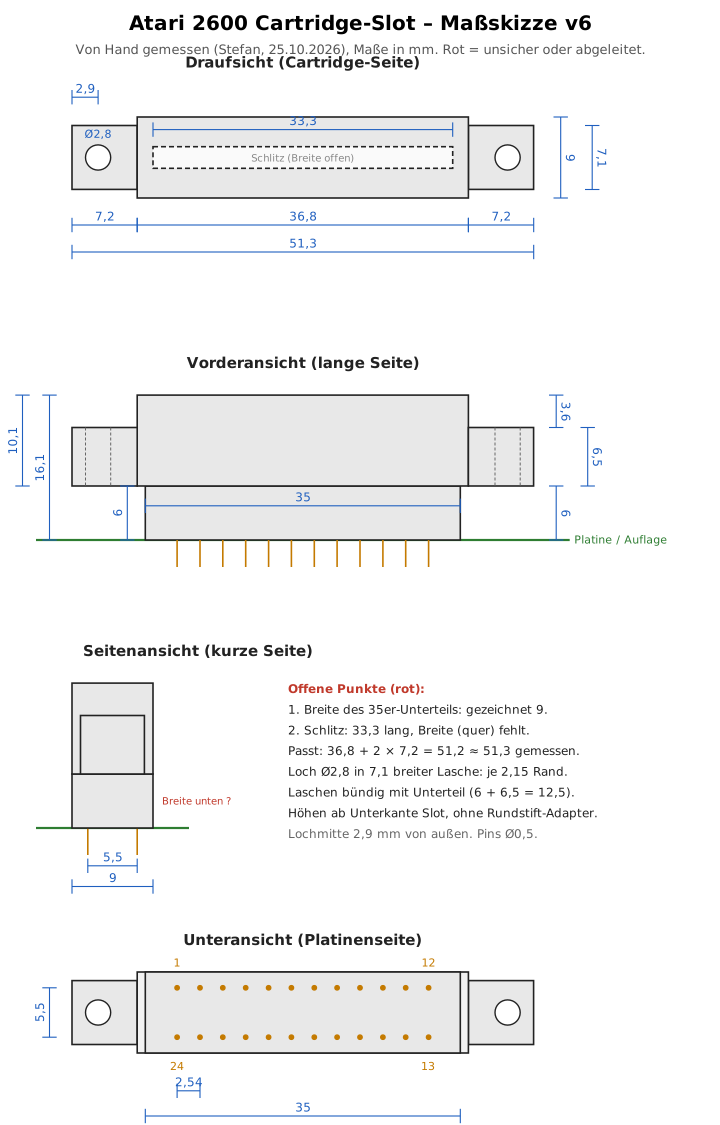
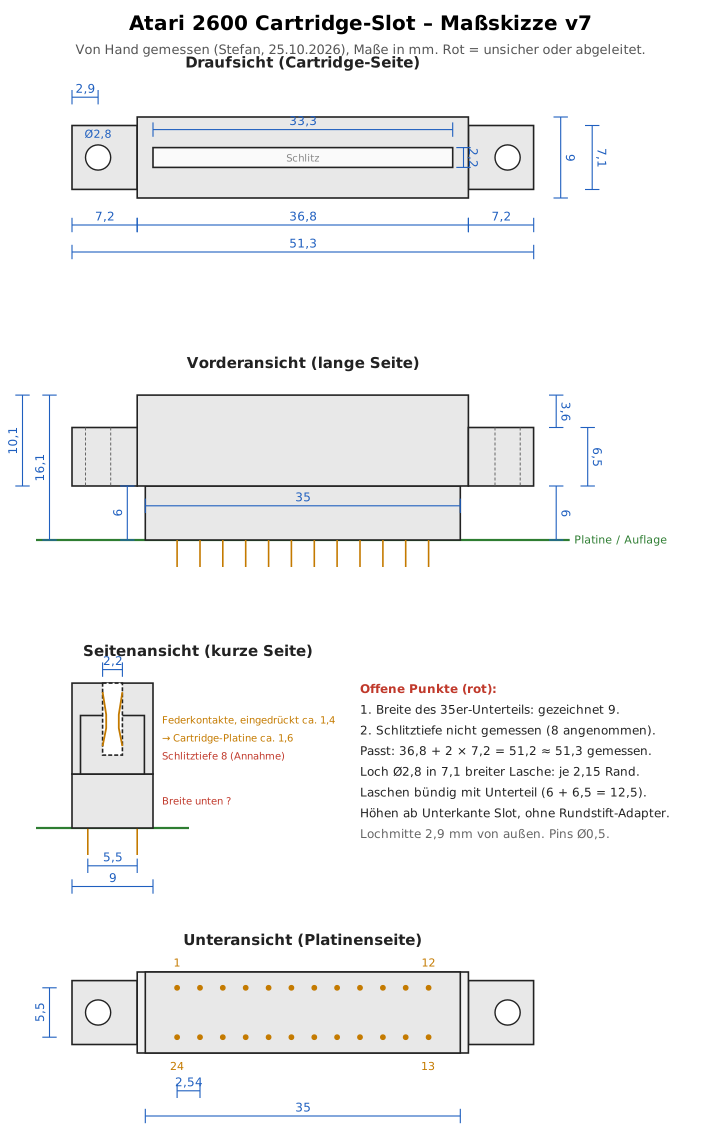
Slot drawing v7: card slot width and spring contacts
Claude-Session: https://claude.ai/code/session_015VQCpzuZ22TPQEmx9cLrbH

diff --git a/hardware/slot-drawing/zeichnung.py b/hardware/slot-drawing/zeichnung.py
@@ -1,6 +1,8 @@
 # 2D-Massskizze Atari-2600-Cartridge-Slot, von Hand gemessen (Stefan, 25.10.2026)
 import sys
 L, W = 51.3, 9.0
+SLOT_W, CONTACT_GAP = 2.2, 1.4       # Schlitzbreite, Abstand eingedrueckter Federkontakte (geschaetzt)
+SLOT_DEPTH = 8.0                    # Annahme, nicht gemessen
 SLOT_L = 33.3                       # Schlitzlaenge (Stefan: "Schlitzbreite")
 UP_H = 10.1                         # Oberteil (36,8 lang) ueber dem Unterteil
 INNER = 36.8                        # Steckleiste ohne Laschen
@@ -47,8 +49,9 @@ ox, oy = 8, 13
 txt(ox + L / 2, oy - 5.5, 'Draufsicht (Cartridge-Seite)', 15, bold=True)
 rect(ox, oy + (W - EAR_W) / 2, EAR, EAR_W); rect(ox + L - EAR, oy + (W - EAR_W) / 2, EAR, EAR_W)
 rect(ox + EAR, oy, INNER, W)
-rect(ox + (L - SLOT_L) / 2, oy + W / 2 - 1.2, SLOT_L, 2.4, fill='#fafafa', dash='5,3')
-txt(ox + L / 2, oy + W / 2 + .45, 'Schlitz (Breite offen)', 10, '#888')
+rect(ox + (L - SLOT_L) / 2, oy + W / 2 - SLOT_W / 2, SLOT_L, SLOT_W, fill='#fafafa')
+txt(ox + L / 2, oy + W / 2 + .45, 'Schlitz', 10, '#888')
+dimv(ox + (L + SLOT_L) / 2 + 1.2, oy + W / 2 - SLOT_W / 2, oy + W / 2 + SLOT_W / 2, '2,2', left=False)
 dimh(ox + (L - SLOT_L) / 2, ox + (L + SLOT_L) / 2, oy + 1.4, f(SLOT_L))
 for xh in (ox + HOLE_X, ox + L - HOLE_X):
     circ(xh, oy + W / 2, HOLE_D)
@@ -90,6 +93,14 @@ rect(sx, sb - LOW_H, W, LOW_H)
 rect(sx, sb - H, W, H - LOW_H)
 rect(sx + (W - EAR_W) / 2, sb - EAR_Z1, EAR_W, EAR_Z1 - EAR_Z0)
 dimh(sx, sx + W, sb + 6.5, '9')
+rect(sx + W / 2 - SLOT_W / 2, sb - H, SLOT_W, SLOT_DEPTH, fill='white', dash='4,2')
+for side in (-1, 1):
+    xw, xc = sx + W / 2 + side * SLOT_W / 2, sx + W / 2 + side * CONTACT_GAP / 2
+    out.append(f'<polyline points="{xw*S:.1f},{(sb-H+1)*S:.1f} {xc*S:.1f},{(sb-H+3.5)*S:.1f} {xc*S:.1f},{(sb-H+5)*S:.1f} {xw*S:.1f},{(sb-H+7)*S:.1f}" fill="none" stroke="{PIN}" stroke-width="1.8"/>')
+dimh(sx + W / 2 - SLOT_W / 2, sx + W / 2 + SLOT_W / 2, sb - H - 1.5, '2,2')
+txt(sx + W + 1, sb - H + 4.5, 'Federkontakte, eingedrückt ca. 1,4', 10, PIN, 'start')
+txt(sx + W + 1, sb - H + 6.5, '→ Cartridge-Platine ca. 1,6', 10, PIN, 'start')
+txt(sx + W + 1, sb - H + 8.5, 'Schlitztiefe 8 (Annahme)', 10, RED, 'start')
 dimh(sx + W / 2 - ROW / 2, sx + W / 2 + ROW / 2, sb + 4.2, '5,5')
 txt(sx + W + 1, sb - LOW_H / 2 + .4, 'Breite unten ?', 10, RED, 'start')
 
@@ -111,10 +122,10 @@ dimh(ux + (L - LOW_L) / 2, ux + (L + LOW_L) / 2, uy + W + 7, '35')
 dimv(ux - 2.5, uy + W / 2 - ROW / 2, uy + W / 2 + ROW / 2, '5,5')
 
 # --- Hinweise ---
-nx, ny = 32, 77
+nx, ny = 40, 77
 notes = [('Offene Punkte (rot):', RED, True),
          ('1. Breite des 35er-Unterteils: gezeichnet 9.', '#222', False),
-         ('2. Schlitz: 33,3 lang, Breite (quer) fehlt.', '#222', False),
+         ('2. Schlitztiefe nicht gemessen (8 angenommen).', '#222', False),
          ('Passt: 36,8 + 2 × 7,2 = 51,2 ≈ 51,3 gemessen.', '#222', False),
          ('Loch Ø2,8 in 7,1 breiter Lasche: je 2,15 Rand.', '#222', False),
          ('Laschen bündig mit Unterteil (6 + 6,5 = 12,5).', '#222', False),
@@ -124,6 +135,6 @@ for i, (t, c, b) in enumerate(notes):
     txt(nx, ny + i * 2.3, t, 12, c, 'start', bold=b)
 w, h = 80 * S, 125 * S
 svg = f'<svg xmlns="http://www.w3.org/2000/svg" width="{w}" height="{h}" viewBox="0 0 {w} {h}"><rect width="100%" height="100%" fill="white"/>' + \
-      f'<text x="{w/2}" y="30" font-family="DejaVu Sans, sans-serif" font-size="20" font-weight="bold" text-anchor="middle">Atari 2600 Cartridge-Slot – Maßskizze v6</text>' + \
+      f'<text x="{w/2}" y="30" font-family="DejaVu Sans, sans-serif" font-size="20" font-weight="bold" text-anchor="middle">Atari 2600 Cartridge-Slot – Maßskizze v7</text>' + \
       f'<text x="{w/2}" y="54" font-family="DejaVu Sans, sans-serif" font-size="13" fill="#555" text-anchor="middle">Von Hand gemessen (Stefan, 25.10.2026), Maße in mm. Rot = unsicher oder abgeleitet.</text>' + ''.join(out) + '</svg>'
 open(sys.argv[1], 'w').write(svg)

diff --git a/hardware/README.md b/hardware/README.md
@@ -47,7 +47,7 @@ Uno: MCP23017 at I2C 0x20 (A0–A2 to GND, RESET to +5 V), SDA = A4, SCL = A5 wi
 - Lower part below the flanges: 35 mm long, 6 mm high (width assumed 9 mm).
 - Body between the flanges 36.8 mm. Mounting flanges 7.2 mm long, 7.1 mm wide (across the pin rows), 6.5 mm high, with a Ø2.8 mm hole centred 2.9 mm from the outer edge.
 - Flange underside flush with the top of the lower part (6 mm above the board), flange top at 12.5 mm. That leaves 3.6 mm to the slot top (confirmed).
-- Card slot opening: 33.3 mm long; width not yet measured.
+- Card slot opening: 33.3 mm long, 2.2 mm wide; the spring contacts close to about 1.4 mm (estimated), which suits a 1.6 mm cartridge PCB. Slot depth not measured.
 
 The measured slot sat on round-pin socket strips for extra height. They are not needed and are left out; the guide sets the cartridge height instead.
 
